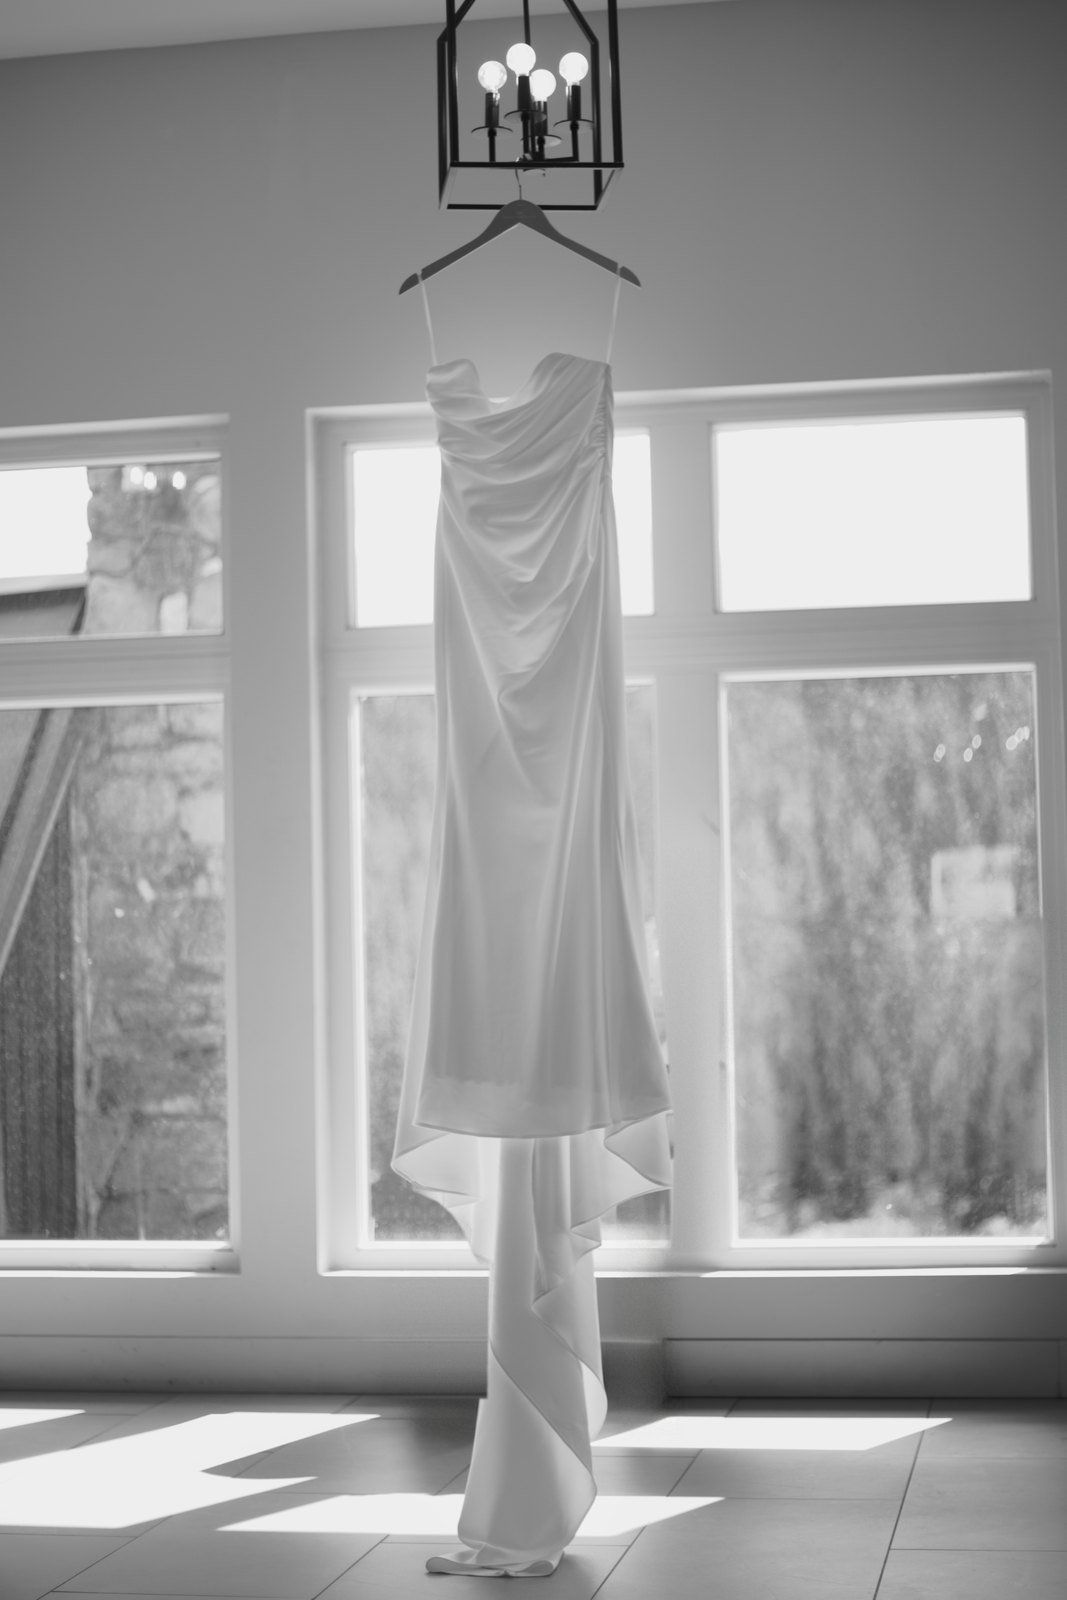
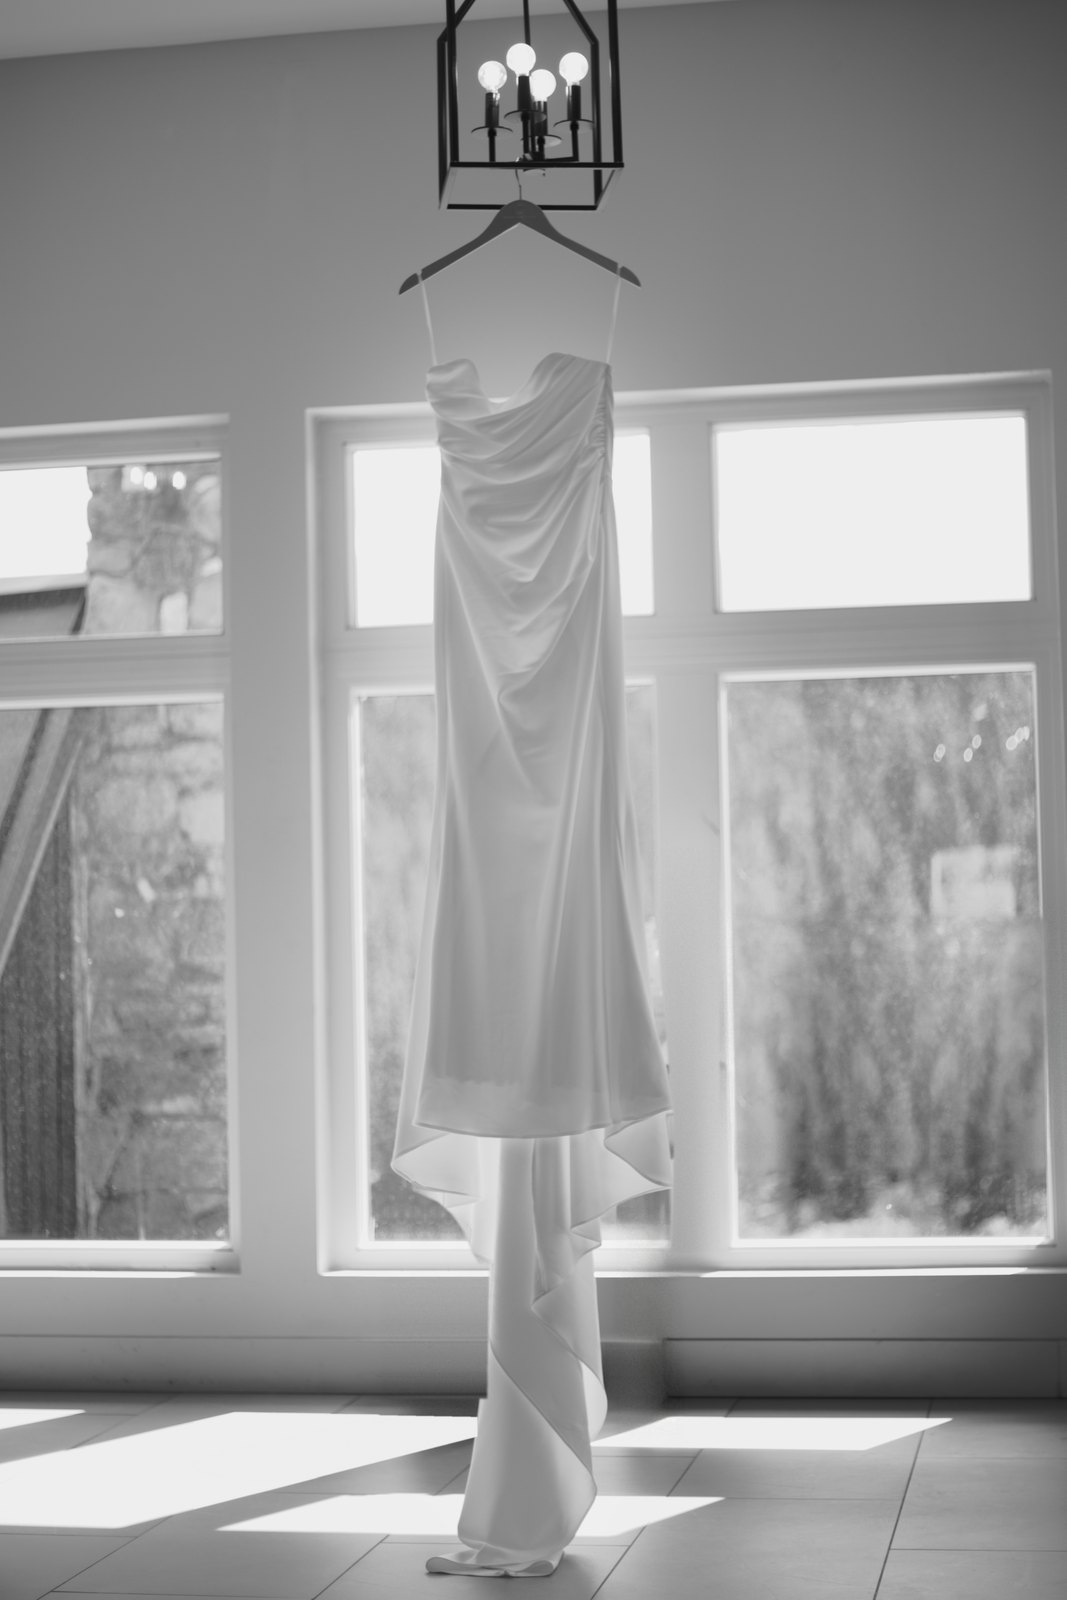
Weddings: dress photo v5 (trash can floor shadow fully removed)

Changed region(s): [[0.1856, 0.875, 0.4639, 0.9375]]

diff --git a/weddings.html b/weddings.html
@@ -90,7 +90,7 @@
       <figure><img src="assets/wed/D44A0400.jpg" alt="Bride and groom in a meadow below a granite peak" loading="lazy"></figure>
       <figure><img src="assets/wed/D44A1604.jpg" alt="Bride laughing in a flower-filled rowboat" loading="lazy"></figure>
       <figure><img src="assets/wed/D44A0351.jpg" alt="Bride putting on her shoes by a sunny window" loading="lazy"></figure>
-      <figure><img src="assets/wed/dress-hanging.jpg?v=2" alt="Wedding dress hanging in front of sunny windows" loading="lazy"></figure>
+      <figure><img src="assets/wed/dress-hanging.jpg?v=3" alt="Wedding dress hanging in front of sunny windows" loading="lazy"></figure>
       <figure><img src="assets/wed/bride-makeup.jpg" alt="Bride getting her makeup done" loading="lazy"></figure>
       <figure><img src="assets/wed/D44A2027.jpg" alt="Bride with a long train under a willow arch" loading="lazy"></figure>
       <figure><img src="assets/wed/D44A1996.jpg" alt="Bride holding her bouquet under willow trees" loading="lazy"></figure>
